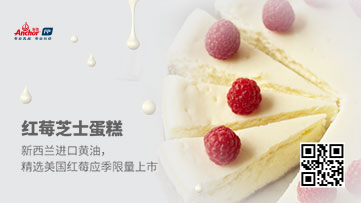
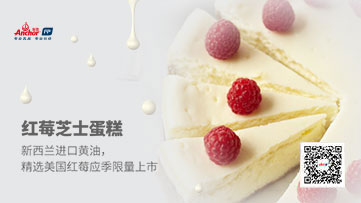
更新

Changed region(s): [[0.8227, 0.6798, 0.9751, 0.9163]]

diff --git a/css/index.css b/css/index.css
@@ -341,10 +341,10 @@ section.franceC .cont.bg2{
 }
 section.franceC .cont .logo{
 	position: absolute;
-	top: 0;
+	top: 0.16rem;
 	left: 0.16rem;
-	width: 1.04rem;
-	height: 1.04rem;
+	width: 1rem;
+	height: 1rem;
 	z-index: 2;
 	background-image: url(../images/public/logoW.png);
 	background-size: 100%;
@@ -356,10 +356,10 @@ section.franceC .cont .logo .l-shell{
 }
 section.franceC .cont .code{
 	position: absolute;
-	top: 8.26rem;
-	right: 0.32rem;
-	width: 1.12rem;
-	height: 1.12rem;
+	bottom: 0.16rem;
+	right: 0.16rem;
+	width: 1rem;
+	height: 1rem;
 	background-image: url(../images/public/code.jpg);
 	background-size: 100%;
 	z-index: 2;
@@ -441,7 +441,7 @@ section.franceC .shellBox .uploadBtn{
 	
 }
 
-section.franceC .shellBox .uploadBtnSide{ width: 1.12rem; height: 1.12rem; margin: 0; right: 0.32rem; top: 0rem; background-color: rgba(255,255,255,0.6);}
+section.franceC .shellBox .uploadBtnSide{ width: 1rem; height: 1rem; margin: 0; right: 0.16rem; top: 0.16rem; background-color: rgba(255,255,255,0.6);}
 
 section.franceC .shellBox .uploadBtn1{
 	background-image: url(../images/france/upbtn1.png);
@@ -515,10 +515,10 @@ section.franceR .cont{
 }
 section.franceR .cont .logo{
 	position: absolute;
-	top: 0rem;
-	left: 0.21rem;
-	width: 0.85rem;
-	height: 0.85rem;
+	top: 0.24rem;
+	left: 0.24rem;
+	width: 0.84rem;
+	height: 0.84rem;
 	z-index: 2;
 	background-image: url(../images/public/logoW.png);
 	background-size: 100%;
@@ -533,8 +533,8 @@ section.franceR .cont .logo2{
 }
 section.franceR .cont .code{
 	position: absolute;
-	top: 3.45rem;
-	right: 0.21rem;
+	bottom: 0.24rem;
+	right: 0.24rem;
 	width: 0.84rem;
 	height: 0.84rem;
 	background-image: url(../images/public/code.jpg);
@@ -600,7 +600,7 @@ section.franceR .shellBox .uploadBtn{
 	
 }
 
-section.franceR .shellBox .uploadBtnSide{ width: 1.1rem; height: 1.1rem; margin: 0; right: 0.2rem; top: 0rem; background-color: rgba(255,255,255,0.6);}
+section.franceR .shellBox .uploadBtnSide{ width: 0.84rem; height: 0.84rem; margin: 0; right: 0.24rem; top: 0.24rem; background-color: rgba(255,255,255,0.6);}
 
 section.franceR .shellBox .uploadBtn1{
 	background-image: url(../images/france/upbtn1.png);
@@ -668,8 +668,8 @@ section.japanC .cont .logo{
 	position: absolute;
 	top: 0.16rem;
 	left: 0.16rem;
-	width: 0.96rem;
-	height: 0.96rem;
+	width: 1rem;
+	height: 1rem;
 	background-image: url(../images/public/logoW.png);
 	background-size: 100%;
 	z-index: 2;
@@ -681,10 +681,10 @@ section.japanC .cont .logo .l-shell{
 }
 section.japanC .cont .code{
 	position: absolute;
-	top: 8.1rem;
+	bottom: 0.16rem;
 	right: 0.16rem;
-	width: 1.04rem;
-	height: 1.04rem;
+	width: 1rem;
+	height: 1rem;
 	background-image: url(../images/public/code.jpg);
 	background-size: 100%;
 	z-index: 2;
@@ -770,7 +770,7 @@ section.japanC .shellBox .uploadBtn{
 	background-size: 100%;
 }
 
-section.japanC .shellBox .uploadBtnSide{ width: 1.04rem; height: 1.04rem; margin: 0; right: 0.16rem; top: 0; background-color: rgba(255,255,255,0.6);}
+section.japanC .shellBox .uploadBtnSide{ width: 1rem; height: 1rem; margin: 0; right: 0.16rem; top: 0.16rem; background-color: rgba(255,255,255,0.6);}
 
 /*japanC end*/
 
@@ -796,8 +796,8 @@ section.japanR .cont .logo{
 	position: absolute;
 	top: 0.24rem;
 	left: 0.24rem;
-	width: 0.72rem;
-	height: 0.72rem;
+	width: 0.84rem;
+	height: 0.84rem;
 	background-image: url(../images/public/logoW.png);
 	background-size: 100%;
 	z-index: 2;
@@ -805,7 +805,7 @@ section.japanR .cont .logo{
 }
 section.japanR .cont .code{
 	position: absolute;
-	top: 3.42rem;
+	bottom: 0.24rem;
 	right: 0.24rem;
 	width: 0.84rem;
 	height: 0.84rem;
@@ -875,14 +875,14 @@ section.japanR .shellBox .uploadBtn{
 	width: 3rem;
 	height: 3rem;
 	position: absolute;
-	top: 50%;
-	right: 1.1rem;
+	top: 45%;
+	right: 0.8rem;
 	margin-top: -1.5rem;
 	background-image: url(../images/japan/upbtn.png);
 	background-size: 100%;
 }
 
-section.japanR .shellBox .uploadBtnSide{ width: 1.1rem; height: 1.1rem; margin: 0; right: 0.24rem; top: 0.24rem; background-color: rgba(255,255,255,0.6);}
+section.japanR .shellBox .uploadBtnSide{ width: 0.84rem; height: 0.84rem; margin: 0; right: 0.24rem; top: 0.24rem; background-color: rgba(255,255,255,0.6);}
 
 /*japanR end*/
 

diff --git a/js/index.js b/js/index.js
@@ -69,8 +69,8 @@ $(document).ready(function(){
 	function init(){
 		requestAnimationFrame(function(){
 			loadBox.show();
-			iuser.init(userGetted);
-//			load_handler();
+//			iuser.init(userGetted);
+			load_handler();
 		});
 	}//edn func
 	
@@ -271,9 +271,9 @@ $(document).ready(function(){
 
 		if(titleA == "") icom.alert("请输入主标题");
 		else if(titleB == "") icom.alert("请输入副标题");
-		else if(!logo) icom.alert("请上传logo");
-		else if(!main) icom.alert("请上传一张内容图片");
-		else if(!code) icom.alert("请上传一张二维码图片");
+//		else if(!logo) icom.alert("请上传logo");
+		else if(!main) icom.alert("请更换一张背景图片");
+//		else if(!code) icom.alert("请上传一张二维码图片");
 		else{
 			setTimeout(function(){
 				nowStep++;
@@ -304,9 +304,16 @@ $(document).ready(function(){
 			
 		}
 
-
+		var logo = $("."+itemplet+" .l-shell").hasClass("up");
+		var code = $("."+itemplet+" .c-shell").hasClass("up");
+		if(!logo) $("."+itemplet+" .logo").hide();
+		if(!code) $("."+itemplet+" .code").hide();
+		
 		icamera.makeImg($("."+itemplet+" .cont"),function(img){
 			icom.fadeOut(loadBox);
+			$('.franceC .logo').add($('.franceC .code')).show();
+			if(!logo) $("."+itemplet+" .logo").show();
+			if(!code) $("."+itemplet+" .code").show();
 			$("#preview .previewImg")[0].src = img;
 			icom.popOn($("#preview"),{fade:500,onClose:showTips});
 			sendInfo(img);
@@ -474,7 +481,10 @@ $(document).ready(function(){
 		itemplet = $(this).data("val");
 		$(".opt").removeClass("active");
 		$(this).addClass("active");
-		$('.franceC .cont').add($('.franceR .cont')).add($('.japanC .cont')).add($('.japanR .cont')).removeClass('black');
+		$('.franceC .cont').removeClass('black');
+		$('.franceR .cont').removeClass('black');
+		$('.japanC .cont').removeClass('black');
+		$('.japanR .cont').removeClass('black');
 	}//end func
 
 	//确认选择模板
@@ -483,13 +493,15 @@ $(document).ready(function(){
 			icom.alert("请选择您的模板");
 		}
 		else{
-			$("#next").hide();
+//			$("#next").hide();
 			if($("."+itemplet+" .c-shell").hasClass('up')) {
 				nowStep = 4;
 				$("#view").show();
 				$(".control").show();
 			}
-			else $(".control").hide().removeClass("show");
+			else{
+//				$(".control").hide().removeClass("show");
+			}//edn else
 			choseBox.hide();
 			controlFlag = true;
 			$("#templet").removeClass("active");
